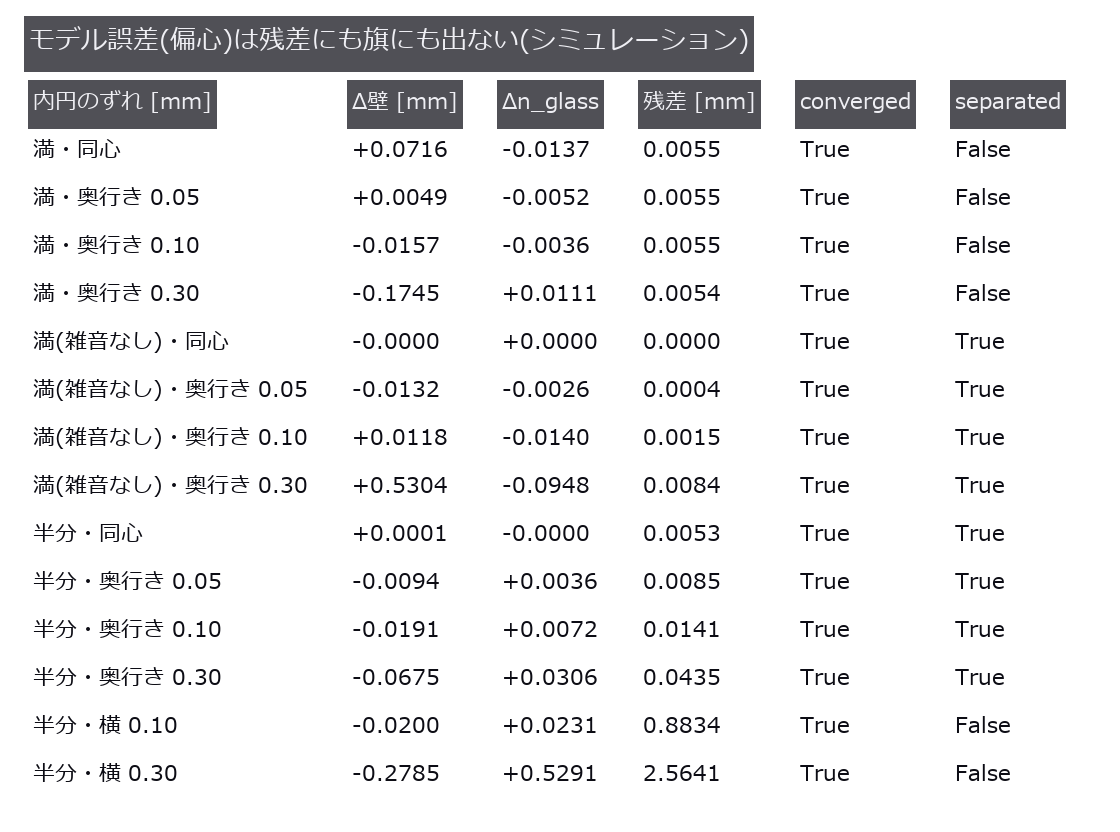
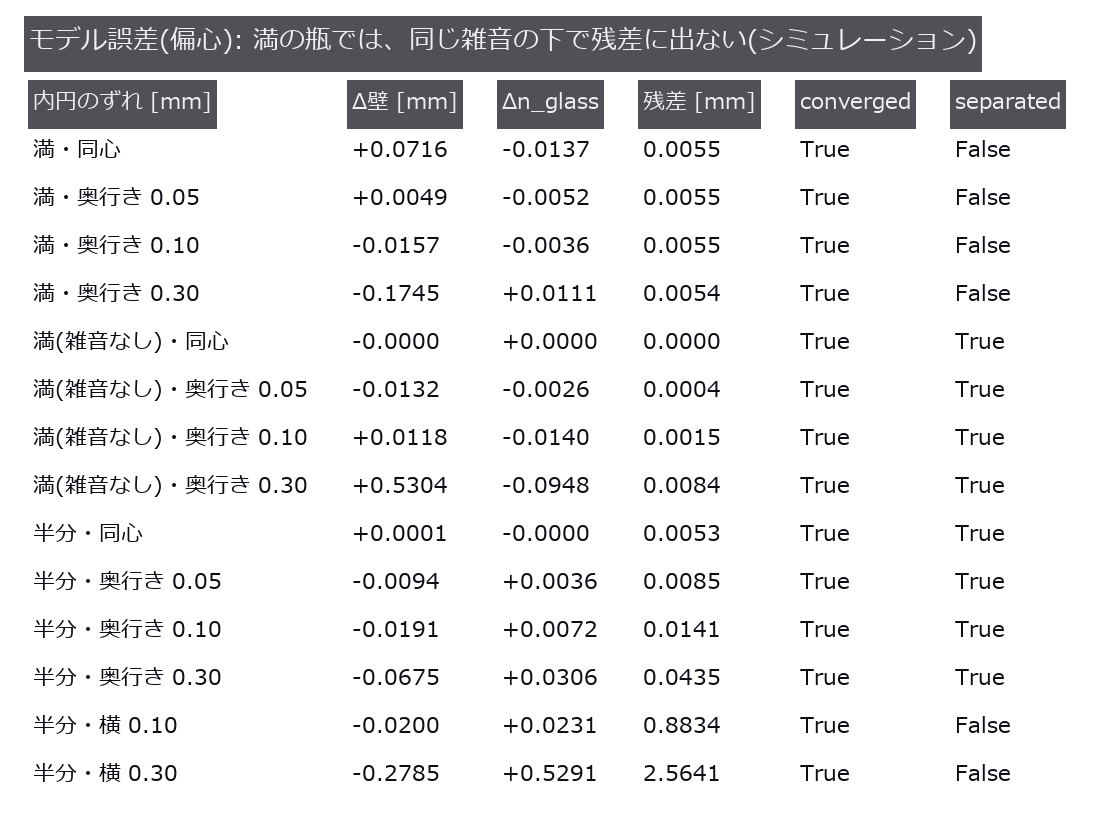
PoC 瓶の逆問題: 偏心の「検出できない」を同じ雑音の条件どうしの比較に直す
独立の敵対的レビュー(2026-11-13)の指摘を再現して直した。前の版の門は、雑音なしの
当てはめの n_glass のずれ(−0.095)と、雑音ありの瓶の残差の床を混ぜていた。

同じ条件どうし(満の瓶、奥行き 0.3 mm の偏心):
- 雑音なしどうし: n_glass −0.095、残差は 0 → 0.0084 mm(雑音が無ければ見える)。
- 雑音 1.5 階調どうし(同じ雑音の実現 60 回ずつ): 残差の比 0.998、
  n_glass の偏り +0.020 は 1 回の σ 0.017 に埋もれる、separated は同心でも
  偏心でも 0 / 60、壁厚が −0.196 mm(σ 0.075 mm の 2.6 倍)偏る。
主張を「n_glass を −0.095 動かすのに残差も旗も気づかない」から「同じ雑音の下で
残差に出ず、壁厚の推定を偏らせる」に改めた。門 37 → 40(混ぜた門 1 本を、
条件をそろえた 4 本に分けた)。表の図 10 の題と説明、説明文の (6) を取り直した。

Claude-Session: https://claude.ai/code/session_01AwZFxqx3fbByJvEbUzzbSt

Changed region(s): [[0.2188, 0.0, 0.875, 0.0938]]

diff --git a/examples/poc_bottle_pattern_inverse.py b/examples/poc_bottle_pattern_inverse.py
@@ -15,7 +15,11 @@
 【観測と当てはめが共有する仮定(inverse crime の残り)】追跡と閉形式は別の導出だが、**同じ世界**を仮定している: (1) 内円と外円が同心で壁厚が一様(偏肉・偏心なし)、
 (2) 水平の 2 次元断面だけ(縦の屈折・縦に傾いた光線なし)、(3) 理想の針穴カメラ(レンズ歪み・開口なし)、(4) 背景は完全な平面で縞は正確に既知、(5) カメラ距離・背景距離・画素ピッチは既知で誤差なし、
 (6) 屈折率は波長に依らず(分散なし)、(7) 液面は水平な平面(メニスカス・気泡なし)、(8) 画素は点の標本(開口で縞が平均されない)。この 8 つが崩れる分は、観測を作る側が崩しても当てはめ側は知らないので、
-**推定値に黙って乗る**。章 5b で (1) を実測した: 内円を 0.3 mm ずらした観測(壁厚 1.5 mm の 20 %)を当てはめると、n_glass が 0.05 超動くのに、残差は雑音の床と同程度で、`separated`・`converged` も真のまま ―― **検出できない**。
+**推定値に黙って乗る**。章 5b で (1) を実測した(液だけの満の瓶、内円を視線の奥行きに 0.3 mm = 壁厚 1.5 mm の 20 % ずらす)。**同じ雑音の条件どうしで比べる**(2026-11-13、作者と独立の検証の指摘で直した。
+前の版は、雑音なしの当てはめの n_glass のずれ −0.095 と、雑音ありの瓶の残差の床を並べて「−0.095 動くのに残差も旗も気づかない」と書いていた ―― そういう 1 つの観測は存在しない):
+雑音なしどうしでは n_glass が −0.095 動くが、残差も 0 から 0.008 mm に増えるので、雑音が無ければ残差で見える。雑音あり(1.5 階調)どうしでは、残差は同心と区別できず(比 1.0)、
+n_glass の偏り(60 回の平均で +0.02)は 1 回の当てはめの雑音の σ(0.017)に埋もれ(満の瓶では `separated` が同心でも偏心でも偽 = n_glass はそもそも分けられていない)、
+**壁厚の推定が −0.20 mm(雑音の σ の 2.6 倍)偏る** ―― 残差は知らない。
 【真値の開示(「異常に良い結果は内訳を疑う」)】真値は**自分で作ったシミュレーションの入力**(R = 30 mm・壁 1.5 mm・n_glass 1.52・水 1.333 / 油 1.47・充填 5 通り)であって、
 実物の瓶の測定ではない。観測も当てはめも、理想の針穴カメラ・完全な円筒・分散なし・既知のカメラ距離と背景距離・点の標本化(画素の開口で縞が平均化されない)を仮定する。
 雑音なしで 1e-6 以下に戻るのは、2 つの独立な導出が同じ幾何光学の式に同じ入力を渡した結果であり、「実物でそうなる」ことの証拠ではない。
@@ -29,7 +33,7 @@
      「2 つの読み出しが行の切り替わりを拾えること」の確認にとどまる(液面はちょうど行境界で、差 0 は構成上のもの)。`bottle_image` にはメニスカスがあり、3 mm で明暗の 2 読みが割れる(下記)が、
      `bottle_background_map` にはメニスカスが無く、縞の側で検証できない。
   5. **分けられない量**: 壁厚と n_glass の相関、使える窓を狭めたときの標準偏差、薄い壁、背景距離と n_liquid の縮退、較正の誤差が引き起こす偏り(背景距離 +1 mm で n_glass 0.011、
-     カメラ距離 +1 mm で 0.0029)、**偏心(モデル誤差)が残差にも旗にも出ないこと**(5b)。`separated` 旗は「雑音だけの誤差」の目安で保証ではない(しきい値 1 % は 1600 試行を見てから置いた。
+     カメラ距離 +1 mm で 0.0029)、**偏心(モデル誤差)が、満の瓶では同じ雑音の下で残差に出ず、壁厚を偏らせること**(5b)。`separated` 旗は「雑音だけの誤差」の目安で保証ではない(しきい値 1 % は 1600 試行を見てから置いた。
      0.25 のときは壁が外れた回の 15〜20 %、n_glass が 0.02 外れた回の 73〜76 % を「分けられた」と言っていた)。
   6. **壊して確かめる**: n_glass を 1.4 に固定する / スネルの式の向きを逆にする → 残差が雑音床を越えて門が赤になる。
 
@@ -70,6 +74,7 @@ BAND_ROWS = 40                     # 雑音の試行は液面を挟む 40 行の
 N_TRIALS = 150 if REDUCED else 300      # 各区間 1 行で使う雑音の試行数(水・油)
 N_TRIALS_ALL = 40 if REDUCED else 60   # 各区間の全行(約 18 行)で使う試行数
 N_SWEEP = 8 if REDUCED else 20          # 壁厚の掃引の 1 点あたりの試行数
+N_ECC = 60                              # 偏心(5b)を同じ雑音どうしで比べる試行数(同心・偏心で同じ雑音の実現。縮小版でも同じ)
 
 
 def gate(name: str, ok: bool, detail: str = "") -> None:
@@ -406,7 +411,7 @@ def chapter_level(keep):
 
 
 # --------------------------------------------------------------------------- #
-# 5b. モデル誤差(偏心)は残差にも旗にも出ない                                        #
+# 5b. モデル誤差(偏心): 同じ雑音の条件どうしで、残差と旗に出るかを比べる               #
 # --------------------------------------------------------------------------- #
 def chapter_model_error():
     print("\n5b. 偏心(内円のずれ)= 観測と当てはめが共有する「同心」の仮定が崩れたとき(観測は別に書いたスカラー追跡、各区間 1 行)")
@@ -437,15 +442,50 @@ def chapter_model_error():
         print("   %s mm: ΔR %+.4f  Δ壁 %+.4f  Δn_g %+.4f  残差 %.4f mm(同心は %.4f)  converged %s  separated %s  雑音だけの σ(n_g) %.1e" % (
             label, rows[-1][1], rows[-1][2], rows[-1][3], r["residual_rms_mm"], base[kind]["residual_rms_mm"], rows[-1][5], rows[-1][6], rows[-1][7]))
     byl = {r_[0]: r_ for r_ in rows}
-    f3, h3, l3 = byl["満(雑音なし)・奥行き 0.30"], byl["半分・奥行き 0.30"], byl["半分・横 0.30"]
-    bf, bh = base["満"]["residual_rms_mm"], base["半分"]["residual_rms_mm"]          # 雑音ありの残差の床
-    gate("満の瓶(液面なし・雑音なし)で奥行き方向の偏心 0.3 mm(壁厚の 20 %)は n_glass を 0.05 超動かすのに、残差は雑音の床(同じ瓶の雑音あり)の 2 倍以内で converged も separated も真のまま = 検出できない(限界の実測)",
-         abs(f3[3]) > 0.05 and f3[4] < 2.0 * bf and f3[5] and f3[6], "Δn_g %+.3f、残差 %.4f / %.4f mm" % (f3[3], f3[4], bf))
+    f0, f3, h3, l3 = byl["満(雑音なし)・同心"], byl["満(雑音なし)・奥行き 0.30"], byl["半分・奥行き 0.30"], byl["半分・横 0.30"]
+    bh = base["半分"]["residual_rms_mm"]                                                # 雑音ありの残差の床(半分の瓶)
+
+    # ★同じ雑音の条件どうし(2026-11-13): 満の瓶を、同心と奥行き 0.3 mm の偏心で、同じ雑音の実現 N_ECC 回ずつ当てはめる。
+    #   前の版は「雑音なしの当てはめのずれ」と「雑音ありの残差の床」を 1 つの門に混ぜていた(そういう観測は存在しない)。
+    def _full_trials(ex_):
+        ul_ = np.array([eccentric_u(xx, ex_, 0.0, 1.333) for xx in x])
+        U_ = np.tile(ul_, (BAND_ROWS, 1))
+        mm_ = {"u_mm": U_, "weight": np.ones(U_.shape), "valid": np.isfinite(U_), "x_mm": x}
+        out = []
+        for i in range(N_ECC):                                   # 種は試行の番号で決める = 同心と偏心で同じ雑音の実現
+            r_ = fit(observe(mm_, np.random.default_rng(5000 + i)), x, restarts=3, rows_per_section=1)
+            out.append((r_["n_glass"] - N_G, r_["wall_mm"] - T_B, r_["residual_rms_mm"], float(bool(r_["separated"])),
+                        float(bool(r_["converged"]))))
+        return np.array(out)
+
+    t0_, t3_ = _full_trials(0.0), _full_trials(0.3)
+    sig_g, sig_w = float(t0_[:, 0].std(ddof=1)), float(t0_[:, 1].std(ddof=1))      # 同心・雑音だけの 1 回の当てはめの σ
+    sh_g, sh_w = float((t3_[:, 0] - t0_[:, 0]).mean()), float((t3_[:, 1] - t0_[:, 1]).mean())
+    res_ratio = float(t3_[:, 2].mean() / t0_[:, 2].mean())
+    sep0, sep3 = float(t0_[:, 3].mean()), float(t3_[:, 3].mean())
+    print("   ★同じ雑音どうし(満の瓶、雑音 %.1f 階調、同じ雑音の実現 %d 回ずつ):" % (SIGMA_DN, N_ECC))
+    for lab_, t_ in (("同心", t0_), ("奥行き 0.30 mm", t3_)):
+        print("     %-12s Δn_g 平均 %+.4f(1 回の σ %.4f)  Δ壁 平均 %+.4f mm(σ %.4f)  残差 平均 %.4f mm  separated %d / %d  converged %d / %d" % (
+            lab_, t_[:, 0].mean(), t_[:, 0].std(ddof=1), t_[:, 1].mean(), t_[:, 1].std(ddof=1), t_[:, 2].mean(),
+            int(t_[:, 3].sum()), N_ECC, int(t_[:, 4].sum()), N_ECC))
+    print("     偏心 − 同心(同じ雑音の実現の差の平均): Δn_g %+.4f(σ の %.1f 倍)、Δ壁 %+.4f mm(σ の %.1f 倍)、残差の比 %.3f" % (
+        sh_g, abs(sh_g) / sig_g, sh_w, abs(sh_w) / sig_w, res_ratio))
+    gate("雑音なしどうし: 満の瓶の奥行き方向の偏心 0.3 mm(壁厚の 20 %)は n_glass を 0.05 超動かし、converged・separated は真のままだが、残差は同心の 10 倍超に増える = 雑音が無ければ残差で見える",
+         abs(f3[3]) > 0.05 and f3[5] and f3[6] and f3[4] > 10.0 * max(f0[4], 1e-5), "Δn_g %+.3f、残差 %.4f mm(同心は %.1e mm)" % (f3[3], f3[4], f0[4]))
+    gate("同じ雑音どうし: 満の瓶の同じ偏心は、残差では同心と区別できない(残差の比が 1.1 未満)= 残差では検出できない(限界の実測)",
+         res_ratio < 1.1, "残差の比 %.3f(%d 回ずつ)" % (res_ratio, N_ECC))
+    gate("同じ雑音どうし: n_glass の偏り(%d 回の平均)は 1 回の当てはめの雑音の σ の 2 倍未満 = 1 回の観測では σ に埋もれる(雑音なしの %+.3f は、雑音ありでは現れない)。separated は同心でも偏心でも大半が偽(満の瓶では n_glass を分けられないと旗が言っている)" % (N_ECC, f3[3]),
+         abs(sh_g) < 2.0 * sig_g and sep0 < 0.5 and sep3 < 0.5, "Δn_g %+.4f、σ %.4f、separated %.0f %% / %.0f %%" % (sh_g, sig_g, 100 * sep0, 100 * sep3))
+    gate("同じ雑音どうし: 壁厚の推定は偏心で雑音の σ の 2 倍超偏る(残差は変わらないので、この偏りには気づけない)",
+         abs(sh_w) > 2.0 * sig_w, "Δ壁 %+.4f mm、σ %.4f mm(%.1f 倍)" % (sh_w, sig_w, abs(sh_w) / sig_w))
     gate("半分の瓶(空の区間もある)では同じ偏心の残差は同心の 3 倍以上に増えて気づけるが、n_glass は 0.02 超動き separated は真のまま(旗は偏心を知らない)",
          abs(h3[3]) > 0.02 and h3[4] > 3.0 * bh and h3[6], "Δn_g %+.3f、残差 %.4f / %.4f mm" % (h3[3], h3[4], bh))
     gate("横方向の偏心 0.3 mm は左右非対称なので残差が同心の 5 倍を越えて見える(検出できる偏心と、できない偏心がある)", l3[4] > 5.0 * bh, "残差 %.4f / %.4f mm" % (l3[4], bh))
     NUMBERS["ecc_full03_dng"], NUMBERS["ecc_full01_dng"] = f3[3], byl["満(雑音なし)・奥行き 0.10"][3]
-    NUMBERS["ecc_half03_ratio"], NUMBERS["ecc_lateral03_ratio"], NUMBERS["ecc_full03_ratio"] = h3[4] / bh, l3[4] / bh, f3[4] / bf
+    NUMBERS["ecc_half03_ratio"], NUMBERS["ecc_lateral03_ratio"] = h3[4] / bh, l3[4] / bh
+    NUMBERS.update({"ecc_full03_noiseless_resid": f3[4], "ecc_full03_noisy_ratio": res_ratio, "ecc_full03_noisy_dng": sh_g,
+                    "ecc_full_noise_sigma_ng": sig_g, "ecc_full03_noisy_dwall": sh_w, "ecc_full_noise_sigma_wall": sig_w,
+                    "ecc_full_sep_concentric": sep0, "ecc_full_sep_eccentric": sep3})
     return rows
 
 
@@ -728,10 +768,15 @@ def make_figures(maps, keep, trials, ident, lrows, merr):
     # 10 偏心(モデル誤差)
     header = ["内円のずれ [mm]", "Δ壁 [mm]", "Δn_glass", "残差 [mm]", "converged", "separated"]
     trs = [[e_, "%+.4f" % dW, "%+.4f" % dG, "%.4f" % rms, str(cv), str(sp)] for e_, dR, dW, dG, rms, cv, sp, sg, kd in merr]
-    figs.save_table("eccentric_model_error", header, trs, title="モデル誤差(偏心)は残差にも旗にも出ない(シミュレーション)",
-                    caption="内円をずらした瓶を別に書いたスカラー追跡で作り、同心円の当てはめに渡した(各区間 1 行)。液だけの満の瓶で視線の奥行き方向に 0.3 mm(壁厚の 20 %%)ずらすと n_glass が %+.3f 動くのに、残差は雑音の床の %.1f 倍で、converged も separated も True のまま ―― 検出できない。"
+    figs.save_table("eccentric_model_error", header, trs, title="モデル誤差(偏心): 満の瓶では、同じ雑音の下で残差に出ない(シミュレーション)",
+                    caption="内円をずらした瓶を別に書いたスカラー追跡で作り、同心円の当てはめに渡した(各区間 1 行。表の雑音ありの行は 1 回の実現)。同じ条件どうしで読む: "
+                            "液だけの満の瓶で視線の奥行き方向に 0.3 mm(壁厚の 20 %%)ずらすと、雑音なしどうしでは n_glass が %+.3f 動き、残差も 0 から %.4f mm に増える(雑音が無ければ見える)。"
+                            "雑音 1.5 階調どうし(同じ雑音の実現 %d 回ずつ)では、残差の比は %.2f で同心と区別できず、n_glass のずれ %+.3f は 1 回の当てはめの σ %.3f に埋もれ"
+                            "(separated は同心でも偏心でもほぼ False)、壁厚だけが %+.2f mm(σ %.2f mm)偏る。"
                             "半分の瓶では残差が %.0f 倍に増えて気づけるが、separated は True のまま。画像の横にずらすと左右非対称で %.0f 倍になる。" % (
-                                NUMBERS["ecc_full03_dng"], NUMBERS["ecc_full03_ratio"], NUMBERS["ecc_half03_ratio"], NUMBERS["ecc_lateral03_ratio"]))
+                                NUMBERS["ecc_full03_dng"], NUMBERS["ecc_full03_noiseless_resid"], N_ECC, NUMBERS["ecc_full03_noisy_ratio"],
+                                NUMBERS["ecc_full03_noisy_dng"], NUMBERS["ecc_full_noise_sigma_ng"], NUMBERS["ecc_full03_noisy_dwall"],
+                                NUMBERS["ecc_full_noise_sigma_wall"], NUMBERS["ecc_half03_ratio"], NUMBERS["ecc_lateral03_ratio"]))
 
 
 def main():
